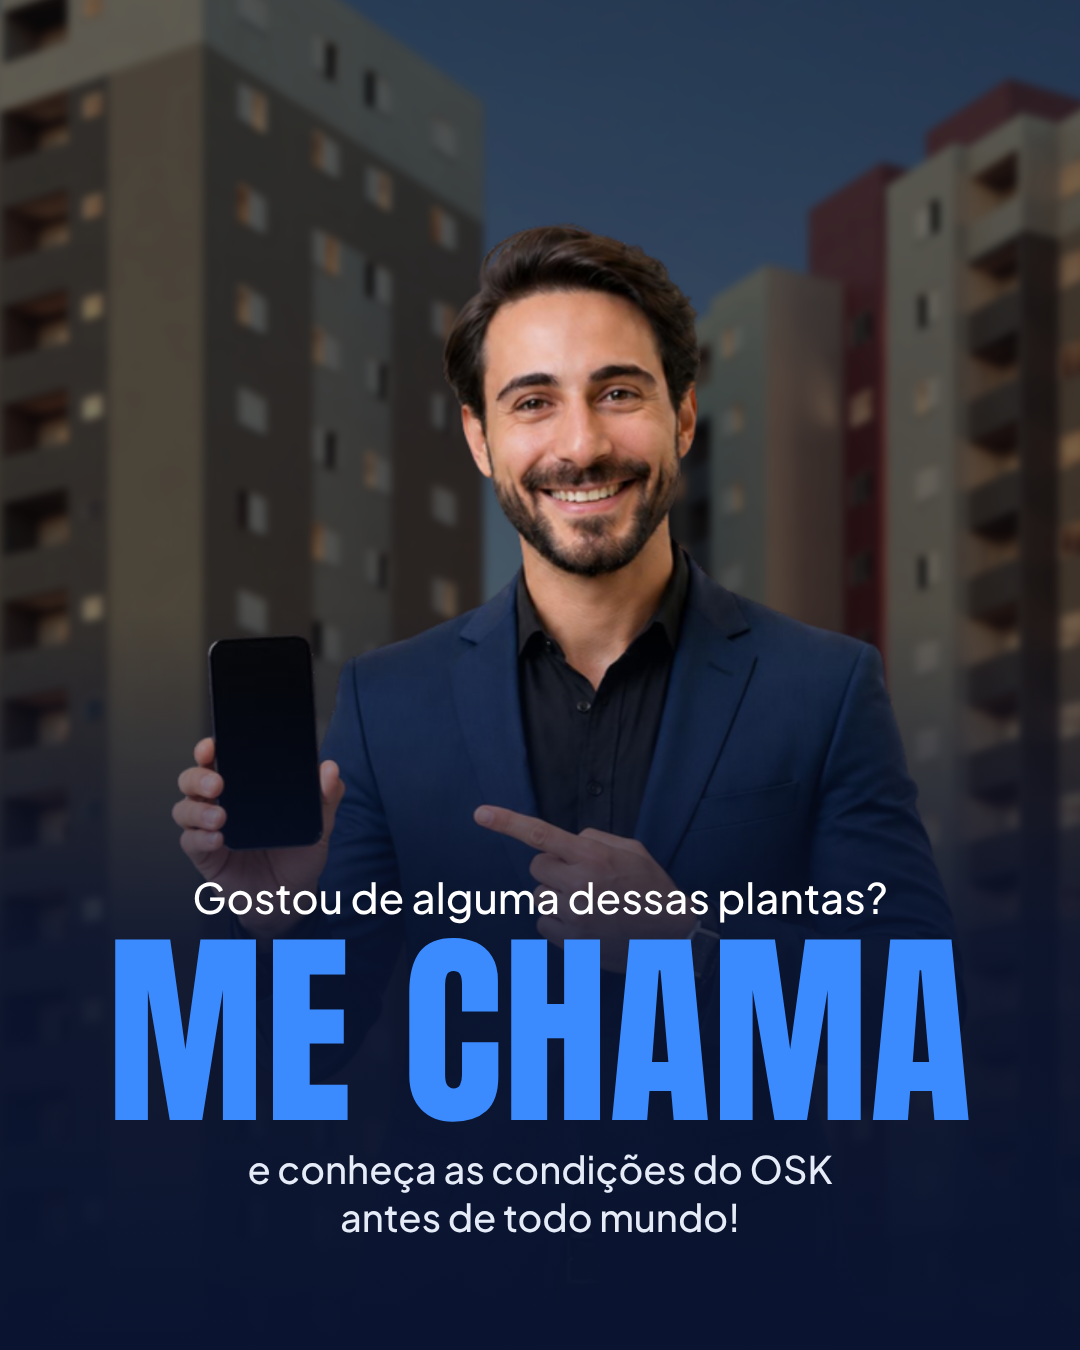
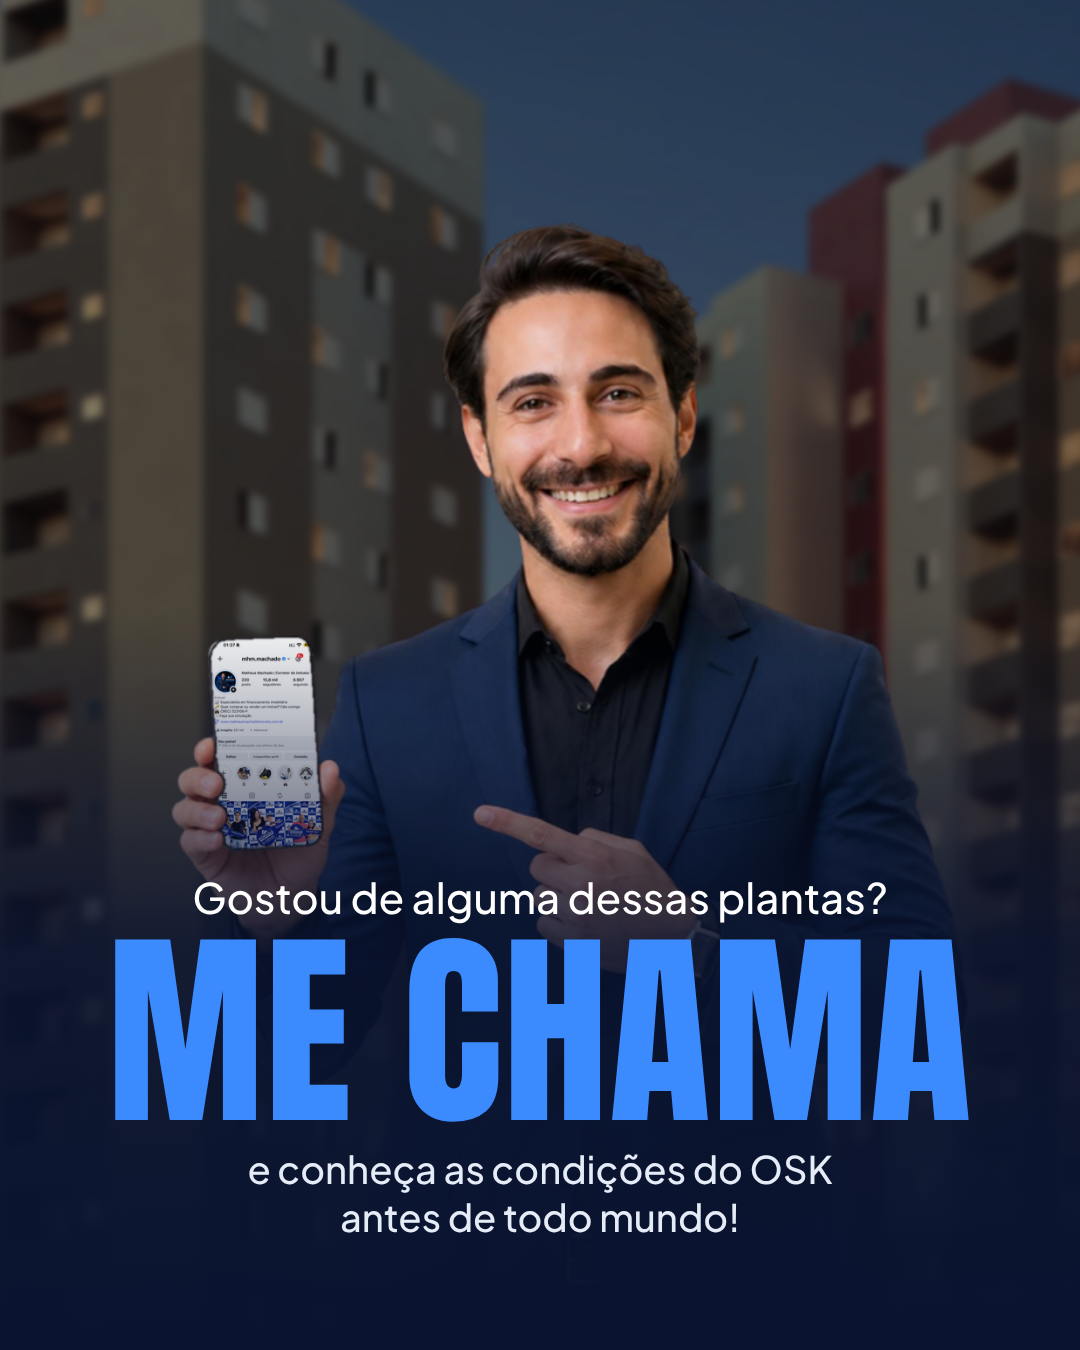
Carrossel OSK: perfil do Instagram na tela do celular da última lâmina (sem a caixinha 'A vibe do dia')
Claude-Session: https://claude.ai/code/session_018X91MFfPMRMPYSAfb3KdfT

Changed region(s): [[0.1833, 0.4667, 0.3056, 0.6533]]

diff --git a/docs/posicionamento/carrosseis/2026-10-12-osk/laminas.html b/docs/posicionamento/carrosseis/2026-10-12-osk/laminas.html
@@ -197,7 +197,7 @@
 
 <section class="lamina cta">
   <img class="fundo" src="img/torres-book.jpg" alt="">
-  <img class="pessoa" src="../../assets/boneco-3d/realista/celular.png" alt="">
+  <img class="pessoa" src="img/pessoa-celular-insta.png" alt="">
   <span class="degrade"></span>
   <div class="txt">
     <div class="l1">Gostou de alguma dessas plantas?</div>
